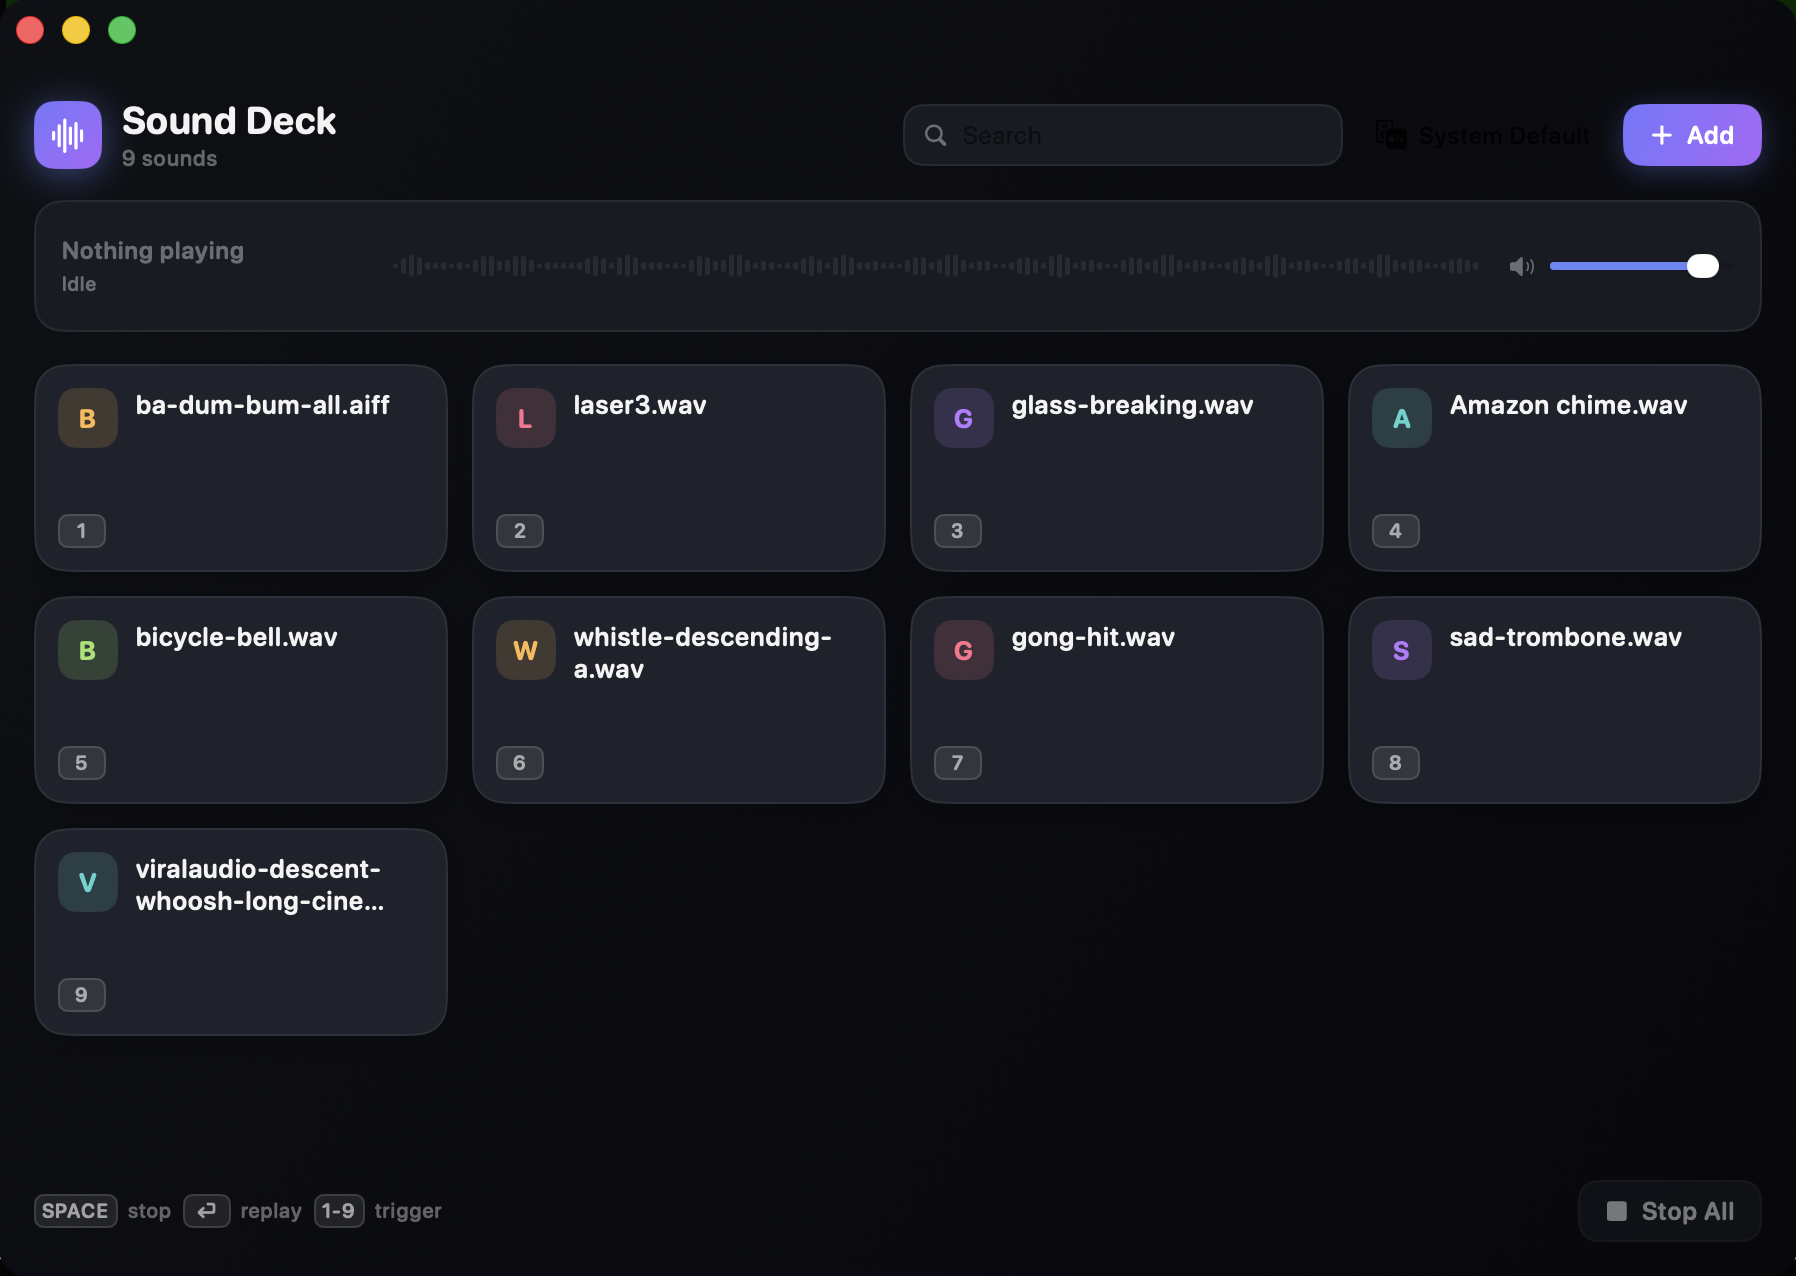
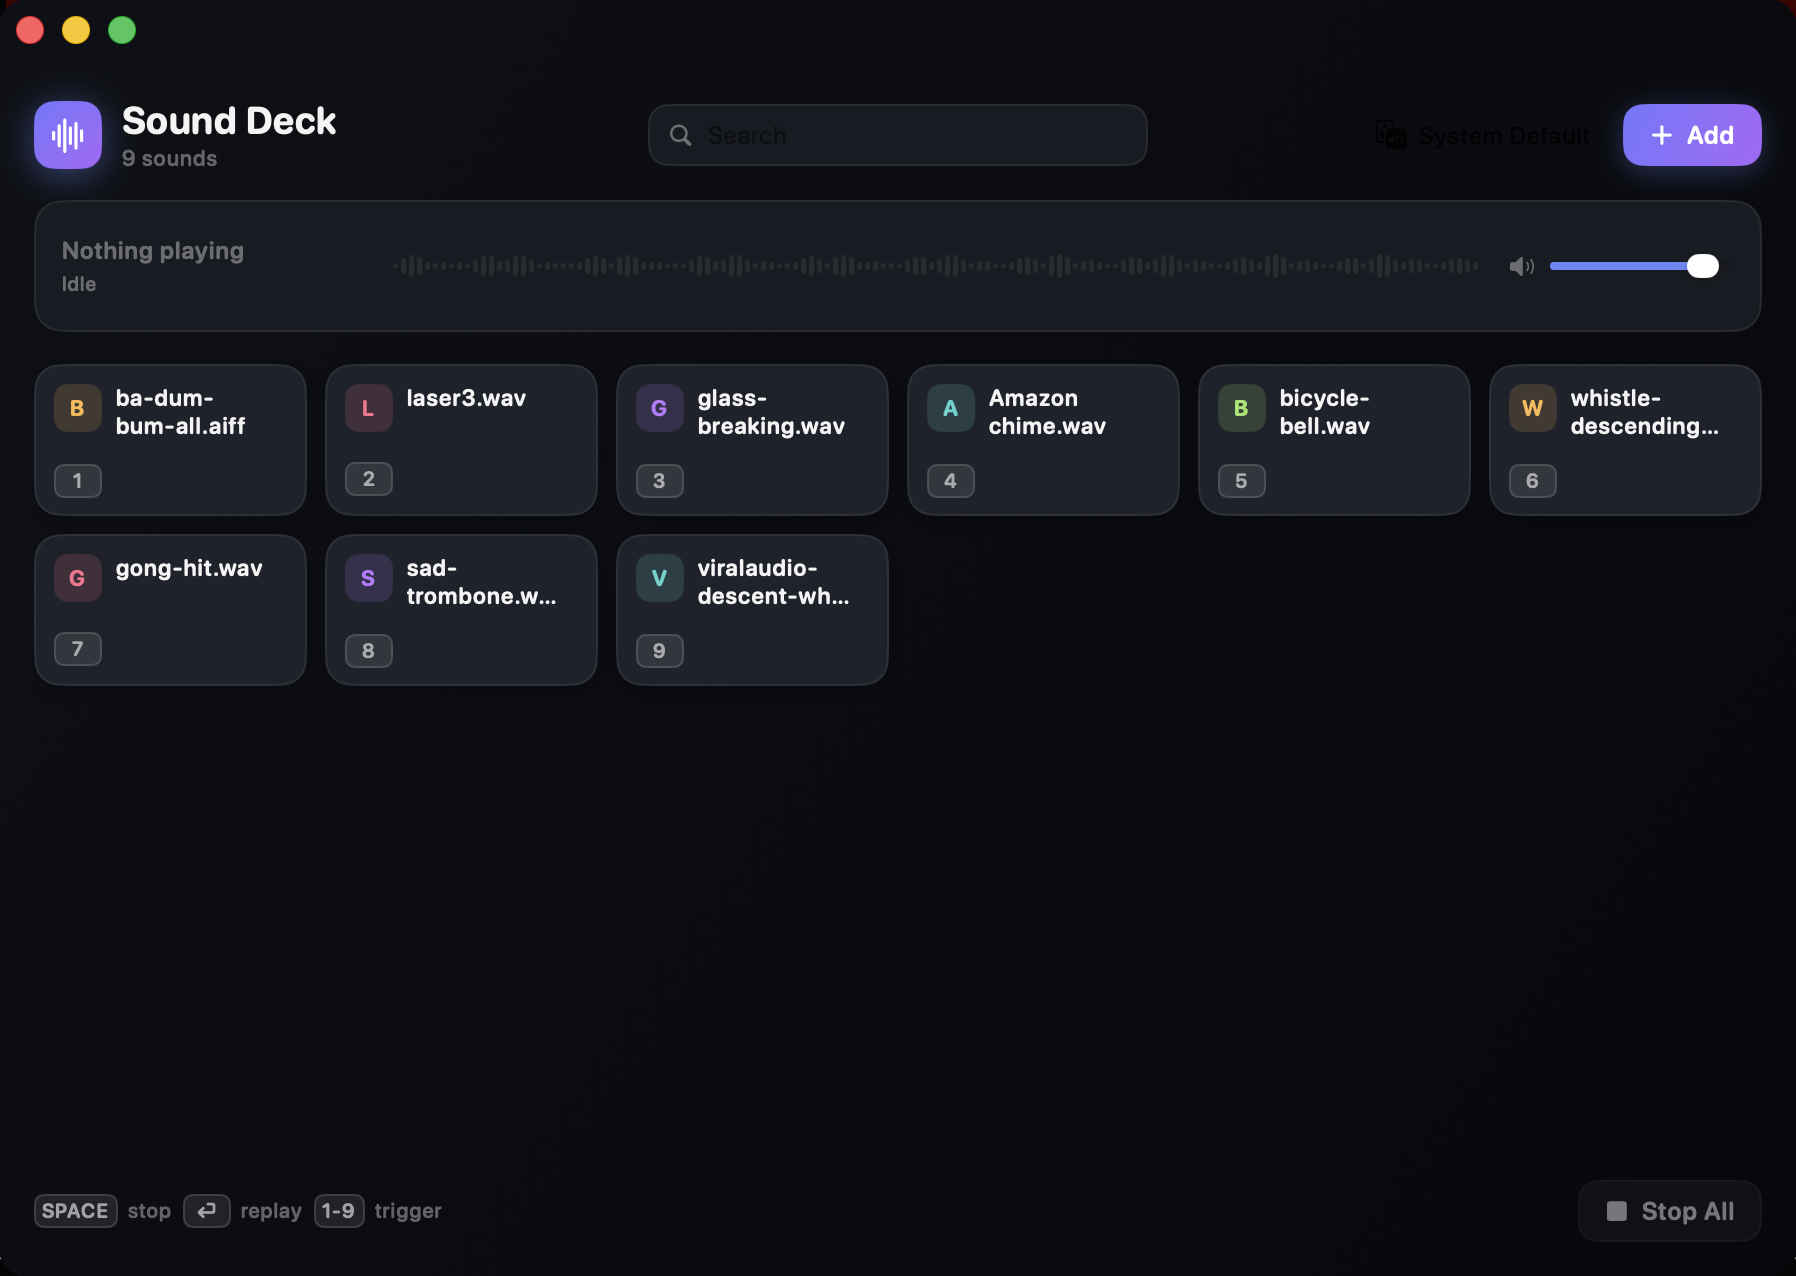
Centre the search field and tighten the sound tiles
The search field sat between the branding and the right-hand controls, so
its position drifted with the length of the selected device name. Overlaying
it centres it on the window instead.

Tiles were sized for two lines of text they rarely need, leaving large gaps
on wide windows. Narrowing the minimum width from 176 to 132 and the height
from 104 to 76 fits six per row where four fit before, with badge, type and
shadow scaled to match.

Claude-Session: https://claude.ai/code/session_01VP1V4T6M7xPzazkJpzPi5v

Changed region(s): [[0.0, 0.2751, 0.9978, 0.8252], [0.9978, 0.0, 1.0, 0.0306], [0.0312, 0.5807, 0.0624, 0.6113]]

diff --git a/SoundDeck/SoundTile.swift b/SoundDeck/SoundTile.swift
@@ -18,20 +18,20 @@ struct SoundTile: View {
 
     var body: some View {
         Button(action: play) {
-            VStack(alignment: .leading, spacing: 10) {
+            VStack(alignment: .leading, spacing: 6) {
                 header
                 Spacer(minLength: 0)
                 footer
             }
-            .padding(12)
-            .frame(height: 104, alignment: .topLeading)
+            .padding(10)
+            .frame(height: Theme.tileHeight, alignment: .topLeading)
             .frame(maxWidth: .infinity, alignment: .leading)
             .background(background)
             .overlay(border)
             .overlay(alignment: .top) { playingEdge }
             .clipShape(RoundedRectangle(cornerRadius: Theme.tileRadius, style: .continuous))
             .shadow(color: isPlaying ? tint.opacity(0.34) : .black.opacity(0.22),
-                    radius: isPlaying ? 16 : 8, y: 4)
+                    radius: isPlaying ? 12 : 6, y: 3)
             .scaleEffect(pressed ? 0.96 : (hovering ? 1.018 : 1))
         }
         .buttonStyle(.plain)
@@ -52,11 +52,11 @@ struct SoundTile: View {
     // MARK: Pieces
 
     private var header: some View {
-        HStack(alignment: .top, spacing: 9) {
+        HStack(alignment: .top, spacing: 7) {
             badge
             VStack(alignment: .leading, spacing: 2) {
                 Text(sound.name)
-                    .font(.system(size: 13, weight: .semibold, design: .rounded))
+                    .font(.system(size: 11.5, weight: .semibold, design: .rounded))
                     .foregroundStyle(Theme.textPrimary)
                     .lineLimit(2)
                     .multilineTextAlignment(.leading)
@@ -68,16 +68,16 @@ struct SoundTile: View {
 
     private var badge: some View {
         ZStack {
-            RoundedRectangle(cornerRadius: 9, style: .continuous)
+            RoundedRectangle(cornerRadius: 7, style: .continuous)
                 .fill(tint.opacity(isPlaying ? 0.30 : 0.16))
-                .frame(width: 30, height: 30)
+                .frame(width: 24, height: 24)
             if let emoji = sound.emoji, !emoji.isEmpty {
-                Text(emoji).font(.system(size: 15))
+                Text(emoji).font(.system(size: 12))
             } else if isPlaying {
                 PlayingBars(color: tint)
             } else {
                 Text(sound.initials)
-                    .font(.system(size: 13, weight: .bold, design: .rounded))
+                    .font(.system(size: 11, weight: .bold, design: .rounded))
                     .foregroundStyle(tint)
             }
         }
@@ -128,7 +128,7 @@ struct SoundTile: View {
                             colors: [tint.opacity(0.28), .clear],
                             center: .topLeading,
                             startRadius: 0,
-                            endRadius: 150
+                            endRadius: 110
                         )
                     )
             }
@@ -148,8 +148,8 @@ struct SoundTile: View {
         if isPlaying {
             Capsule()
                 .fill(tint)
-                .frame(width: 26, height: 3)
-                .padding(.top, 5)
+                .frame(width: 20, height: 2.5)
+                .padding(.top, 4)
                 .shadow(color: tint.opacity(0.8), radius: 5)
         }
     }

diff --git a/SoundDeck/ContentView.swift b/SoundDeck/ContentView.swift
@@ -65,6 +65,17 @@ struct ContentView: View {
     // MARK: - Header
 
     private var header: some View {
+        // The search field is overlaid rather than placed between the two groups, so
+        // it centres on the window instead of on the leftover space — which would
+        // drift as the branding and device names change width.
+        ZStack {
+            headerSides
+            searchField
+                .frame(width: 250)
+        }
+    }
+
+    private var headerSides: some View {
         HStack(spacing: 12) {
             HStack(spacing: 10) {
                 ZStack {
@@ -86,10 +97,8 @@ struct ContentView: View {
                 }
             }
 
-            Spacer(minLength: 8)
-
-            searchField
-                .frame(maxWidth: 220)
+            // Reserves the centre for the overlaid search field.
+            Spacer(minLength: 270)
 
             outputMenu
 

diff --git a/SoundDeck/Theme.swift b/SoundDeck/Theme.swift
@@ -57,9 +57,10 @@ enum Theme {
 
     // MARK: Geometry
 
-    static let tileRadius: CGFloat = 16
-    static let tileMinWidth: CGFloat = 176
-    static let tileSpacing: CGFloat = 12
+    static let tileRadius: CGFloat = 13
+    static let tileMinWidth: CGFloat = 132
+    static let tileHeight: CGFloat = 76
+    static let tileSpacing: CGFloat = 9
 }
 
 extension SoundTint {
